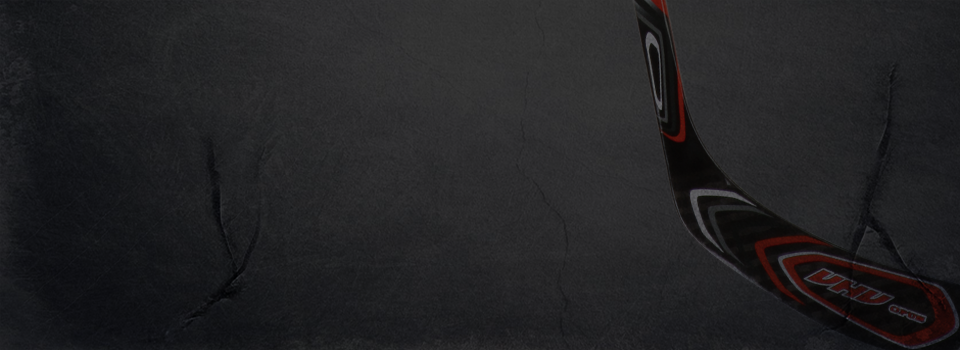
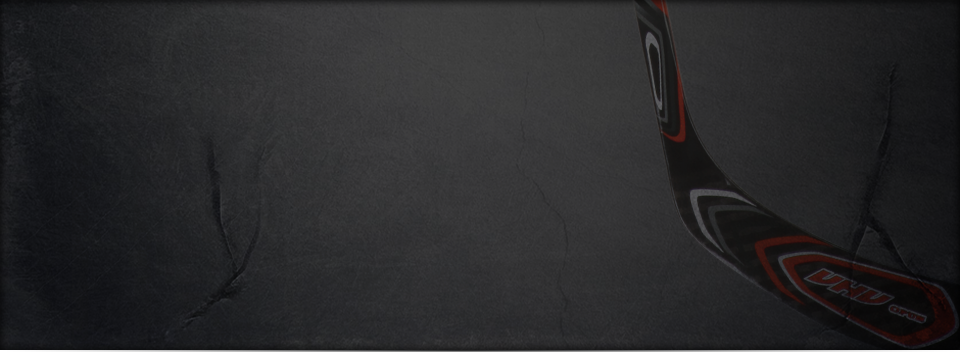
nejake zmeny

diff --git a/kategorie.html b/kategorie.html
@@ -77,8 +77,6 @@
 	        				<p>Hokejové rukavice<span>3849 YTH BASIC 500</span></p>    				
 	        			</li>
 	        		</ul>
-	        		<div class="clone">
-	        		</div>
 	        	</section>
 	        	<section class="slideshow container shoulders">
 	        		<ul class="bxslider" id="slider3">
@@ -89,8 +87,6 @@
 	        				<p>Hokejové chrániče ramen<span>3682 CLASSIC 2000</span></p>    				
 	        			</li>
 	        		</ul>
-	        		<div class="clone">
-	        		</div>
 	        	</section>
 	        	<section class="slideshow container elbows">
 	        		<ul class="bxslider" id="slider3">
@@ -102,8 +98,6 @@
 	        				<p>Hokejové chrániče loktů<span>3829 BASIC 500</span></p>    				
 	        			</li>
 	        		</ul>
-	        		<div class="clone">
-	        		</div>
 	        	</section>
 	        	<section class="slideshow container knees">
 	        		<ul class="bxslider" id="slider3">
@@ -114,8 +108,6 @@
 	        				<p>Hokejové chrániče holení<span>3687 BASIC 500</span></p>    				
 	        			</li>
 	        		</ul>
-	        		<div class="clone">
-	        		</div>
 	        	</section>
 	        	<section class="slideshow container goalie">
 	        		<ul class="bxslider" id="slider3">
@@ -127,8 +119,6 @@
 	        				<p>Brankářské hokejové chrániče<span>betony 4015</span></p>    				
 	        			</li>
 	        		</ul>
-	        		<div class="clone">
-	        		</div>
 	        	</section>
 	        	<section class="slideshow container lapacka">
 	        		<ul class="bxslider" id="slider3">
@@ -139,8 +129,6 @@
 	        				<p>Brankářské hokejové lapačky<span>3806 ACE PRO 2000</span></p>    				
 	        			</li>
 	        		</ul>
-	        		<div class="clone">
-	        		</div>
 	        	</section>
 	        	<section class="slideshow container vyrazecky">
 	        		<ul class="bxslider" id="slider3">
@@ -152,8 +140,6 @@
 	        				<p>Brankářská hokejová vyrážečka<span>3807 ACE PRO 2000</span></p>    				
 	        			</li>
 	        		</ul>
-	        		<div class="clone">
-	        		</div>
 	        	</section>
 	        	<section class="slideshow container kalhoty">
 	        		<ul class="bxslider" id="slider3">
@@ -164,8 +150,6 @@
 	        				<p>Hokejové kalhoty<span>3735 BASIC 500</span></p>    				
 	        			</li>
 	        		</ul>
-	        		<div class="clone">
-	        		</div>
 	        	</section>
 	        	<section class="slideshow container vesty">
 	        		<ul class="bxslider" id="slider3">
@@ -177,8 +161,6 @@
 	        				<p>Brankářská hokejová vesta<span>3869 ACE PRO 500</span></p>    				
 	        			</li>
 	        		</ul>
-	        		<div class="clone">
-	        		</div>
 	        	</section>
 	        	<section class="slideshow container hokejky">
 	        		<ul class="bxslider" id="slider3">
@@ -189,8 +171,6 @@
 	        				<p>Kompozitová hokejka<span>3788 BASIC 500</span></p>    				
 	        			</li>
 	        		</ul>
-	        		<div class="clone">
-	        		</div>
 	        	</section>
 	        	<section class="slideshow container doplnky">
 	        		<ul class="bxslider" id="slider3">
@@ -202,8 +182,6 @@
 	        				<p>Kompresní kalhoty<span>se suspenzorem 4016</span></p>    				
 	        			</li>
 	        		</ul>
-	        		<div class="clone">
-	        		</div>
 	        	</section>
 	        	<section class="slideshow container bags">
 	        		<ul class="bxslider" id="slider3">
@@ -214,8 +192,6 @@
 	        				<p>Hokejová taška<span>3852</span></p>    				
 	        			</li>
 	        		</ul>
-	        		<div class="clone">
-	        		</div>
 	        	</section>
 	        	<section class="slideshow container hockeyball">
 	        		<ul class="bxslider" id="slider3">
@@ -227,8 +203,6 @@
 	        				<p>Hokejové Inline kalhoty<span>3741</span></p>    				
 	        			</li>
 	        		</ul>
-	        		<div class="clone">
-	        		</div>
 	        	</section>
 	        	<section class="slideshow container action">
 	        		<ul class="bxslider" id="slider3">
@@ -239,8 +213,6 @@
 	        				<p>Hokejový brankářský set<span>ACE PRO 500</span></p>    				
 	        			</li>
 	        		</ul>
-	        		<div class="clone">
-	        		</div>
 	        	</section>
 	        </section>
         </div>

diff --git a/assets/css/main.css b/assets/css/main.css
@@ -216,59 +216,59 @@ header form {
    ========================================================================== */
 .gloves {
 	background: url(../img-slideshow/category-bg/bg-gloves.png) no-repeat;
-	height: 350px;
+	height: 352px;
 }
 .shoulders {
 	background: url(../img-slideshow/category-bg/bg-shoulders.png) no-repeat;
-	height: 350px;
+	height: 352px;
 }
 .elbows {
 	background: url(../img-slideshow/category-bg/bg-elbows.png) no-repeat;
-	height: 350px;
+	height: 352px;
 }
 .knees {
 	background: url(../img-slideshow/category-bg/bg-knees.png) no-repeat;
-	height: 350px;
+	height: 352px;
 }
 .goalie {
 	background: url(../img-slideshow/category-bg/bg-goalie.png) no-repeat;
-	height: 350px;
+	height: 352px;
 }
 .lapacka {
 	background: url(../img-slideshow/category-bg/bg-lapacka.png) no-repeat;
-	height: 350px;
+	height: 352px;
 }
 .vyrazecky {
 	background: url(../img-slideshow/category-bg/bg-vyrazecky.png) no-repeat;
-	height: 350px;
+	height: 352px;
 }
 .kalhoty {
 	background: url(../img-slideshow/category-bg/bg-kalhoty.png) no-repeat;
-	height: 350px;
+	height: 352px;
 }
 .vesty {
 	background: url(../img-slideshow/category-bg/bg-vesty.png) no-repeat;
-	height: 350px;
+	height: 352px;
 }
 .hokejky {
 	background: url(../img-slideshow/category-bg/bg-hokejky.png) no-repeat;
-	height: 350px;
+	height: 352px;
 }
 .doplnky {
 	background: url(../img-slideshow/category-bg/bg-doplnky.png) no-repeat;
-	height: 350px;
+	height: 352px;
 }
 .bags {
 	background: url(../img-slideshow/category-bg/bg-tasky.png) no-repeat;
-	height: 350px;
+	height: 352px;
 }
 .hockeyball {
 	background: url(../img-slideshow/category-bg/bg-hockeyball.png) no-repeat;
-	height: 350px;
+	height: 352px;
 }
 .action {
 	background: url(../img-slideshow/category-bg/bg-action.png) no-repeat;
-	height: 350px;
+	height: 352px;
 }
 
 /* ==========================================================================
@@ -549,14 +549,12 @@ nav.container ul {
 .slideshow {
 	margin-top: 10px;
 	position: relative;
+	
 }
-	.clone {
+	.default {
 		background: url(../img/foreground-slider.png) no-repeat;
 		width: 960px;
 		height: 352px;
-		top: 0px;
-		position: absolute;
-		z-index: 100;
 	}
 	
 	.item {
@@ -719,6 +717,13 @@ nav.container ul {
 			margin-bottom: 10px;
 			text-align: justify;
 		}
+		.content-box ul.list { margin-bottom: 10px; list-style-type: none; }
+			.content-box .list li { line-height: 18px; }
+			.content-box .list li:before {
+				font-family: 'icomoon';
+				content: "\e66a";
+				vertical-align: middle;
+			}
 
 	ul.news {
 		list-style-type: none;

diff --git a/side-nav.html b/side-nav.html
@@ -82,17 +82,21 @@
 	        		</ul>
 	        	</nav>
 	        	
-	        	<section class="slideshow container">
-	        		<ul class="bxslider" id="slider1">
+	        	<section class="slideshow default container">
+	        		<ul class="bxslider" id="slider2">
 	        			<li>
-	        				<img src="assets/img-slideshow/slideshow-1.png" alt="slideshow-1">	        				
+	        				<div class="item">
+	        					<img src="storage/img-product/product1.png" alt="product1">
+	        				</div>
+	        				<p>Hokejové rukavice<span>3849 YTH BASIC 500</span></p>    				
 	        			</li>
 	        			<li>
-	        				<img src="http://placehold.it/960x350">
+	        				<div class="item">
+	        					<img src="storage/img-product/product4.png" alt="product2">
+	        				</div>
+	        				<p>Hokejové rukavice<span>3848 jr classic 2000</span></p>    				
 	        			</li>
 	        		</ul>
-	        		<div class="clone">
-	        		</div>
 	        	</section>
 	        	
 	        	<section class="container clearfix">
@@ -104,6 +108,10 @@
 			        		pro jezdecký sport, postupem času svůj výrobní program rozšířila o výrobu sportovních brašen 
 			        		a kletrů a v posledních více než 40 letech se zaměřuje hlavně na výrobu hokejové výstroje a 
 			        		příbuzné sporty.</p>
+			        		<ul class="list">
+				        		<li>Historie firmy OPUS se traduje od r. 1923.</li>
+				        		<li>V průběhu 85 let svého trvání si získala dobré jméno ve svém oboru.</li>
+			        		</ul>
 			        		<p>Od roku 1991 naši modeláři úzce spolupracovali s firmou Karhu Canada (později CCM, nyní 
 			        		Reebok), pro kterou jsme až do roku 2005 vyráběli statisíce kalhot ročně. Další rozšíření 
 			        		výrobního programu pro nás znamenal začátek spolupráce s finskou firmou C.P.E. Production Oy. 

diff --git a/homepage.html b/homepage.html
@@ -77,17 +77,21 @@
 	        		</ul>
 	        	</nav>
 	        	
-	        	<section class="slideshow container">
-	        		<ul class="bxslider" id="slider1">
+	        	<section class="slideshow default container">
+	        		<ul class="bxslider" id="slider2">
 	        			<li>
-	        				<img src="assets/img-slideshow/slideshow-1.png" alt="slideshow-1">	        				
+	        				<div class="item">
+	        					<img src="storage/img-product/product1.png" alt="product1">
+	        				</div>
+	        				<p>Hokejové rukavice<span>3849 YTH BASIC 500</span></p>    				
 	        			</li>
 	        			<li>
-	        				<img src="http://placehold.it/960x350">
+	        				<div class="item">
+	        					<img src="storage/img-product/product4.png" alt="product2">
+	        				</div>
+	        				<p>Hokejové rukavice<span>3848 jr classic 2000</span></p>    				
 	        			</li>
 	        		</ul>
-	        		<div class="clone">
-	        		</div>
 	        	</section>
 	        	
 	        	<section class="container clearfix">

diff --git a/eshop.html b/eshop.html
@@ -116,8 +116,6 @@
 	        				<p>Hokejové rukavice<span>3847 sr classic 3000</span></p>    				
 	        			</li>
 	        		</ul>
-	        		<div class="clone">
-	        		</div>
 	        	</section>
 	        	
 	        	<section class="container clearfix">

diff --git a/product.html b/product.html
@@ -92,8 +92,6 @@
 	        				<p>Hokejové rukavice<span>3849 YTH BASIC 500</span></p>    				
 	        			</li>
 	        		</ul>
-	        		<div class="clone">
-	        		</div>
 	        	</section>
 	        	
 	        	<section class="container clearfix">
